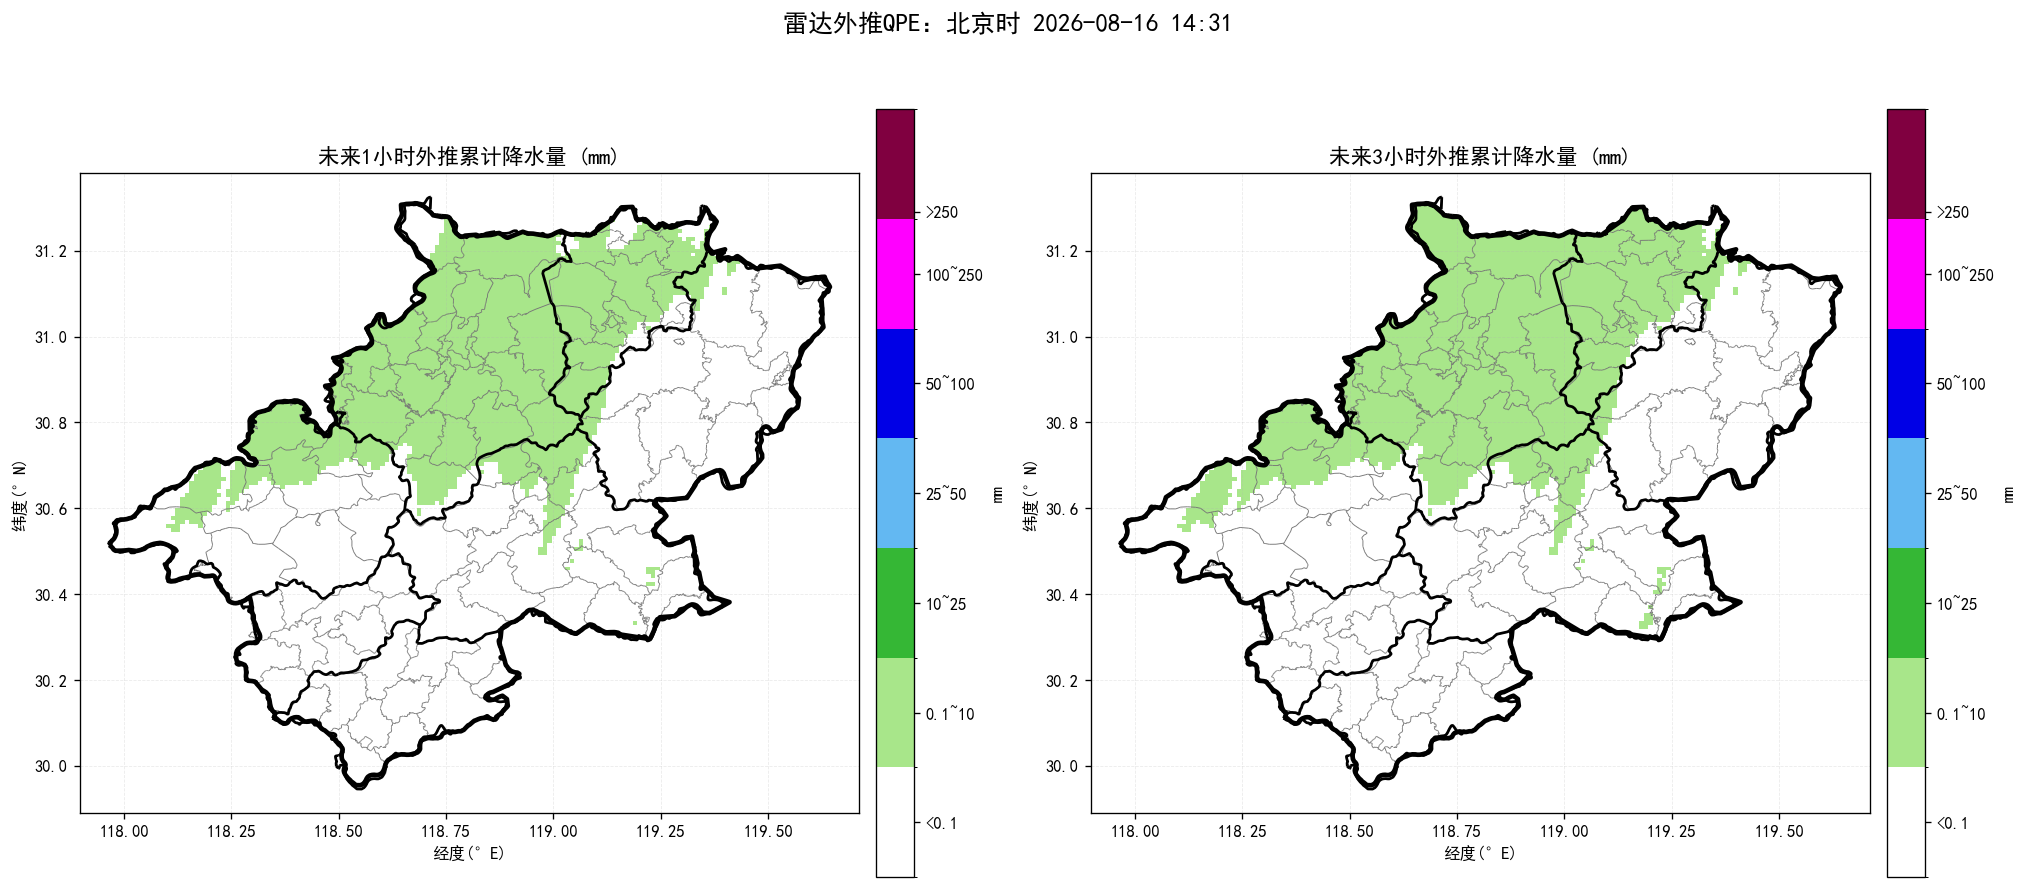
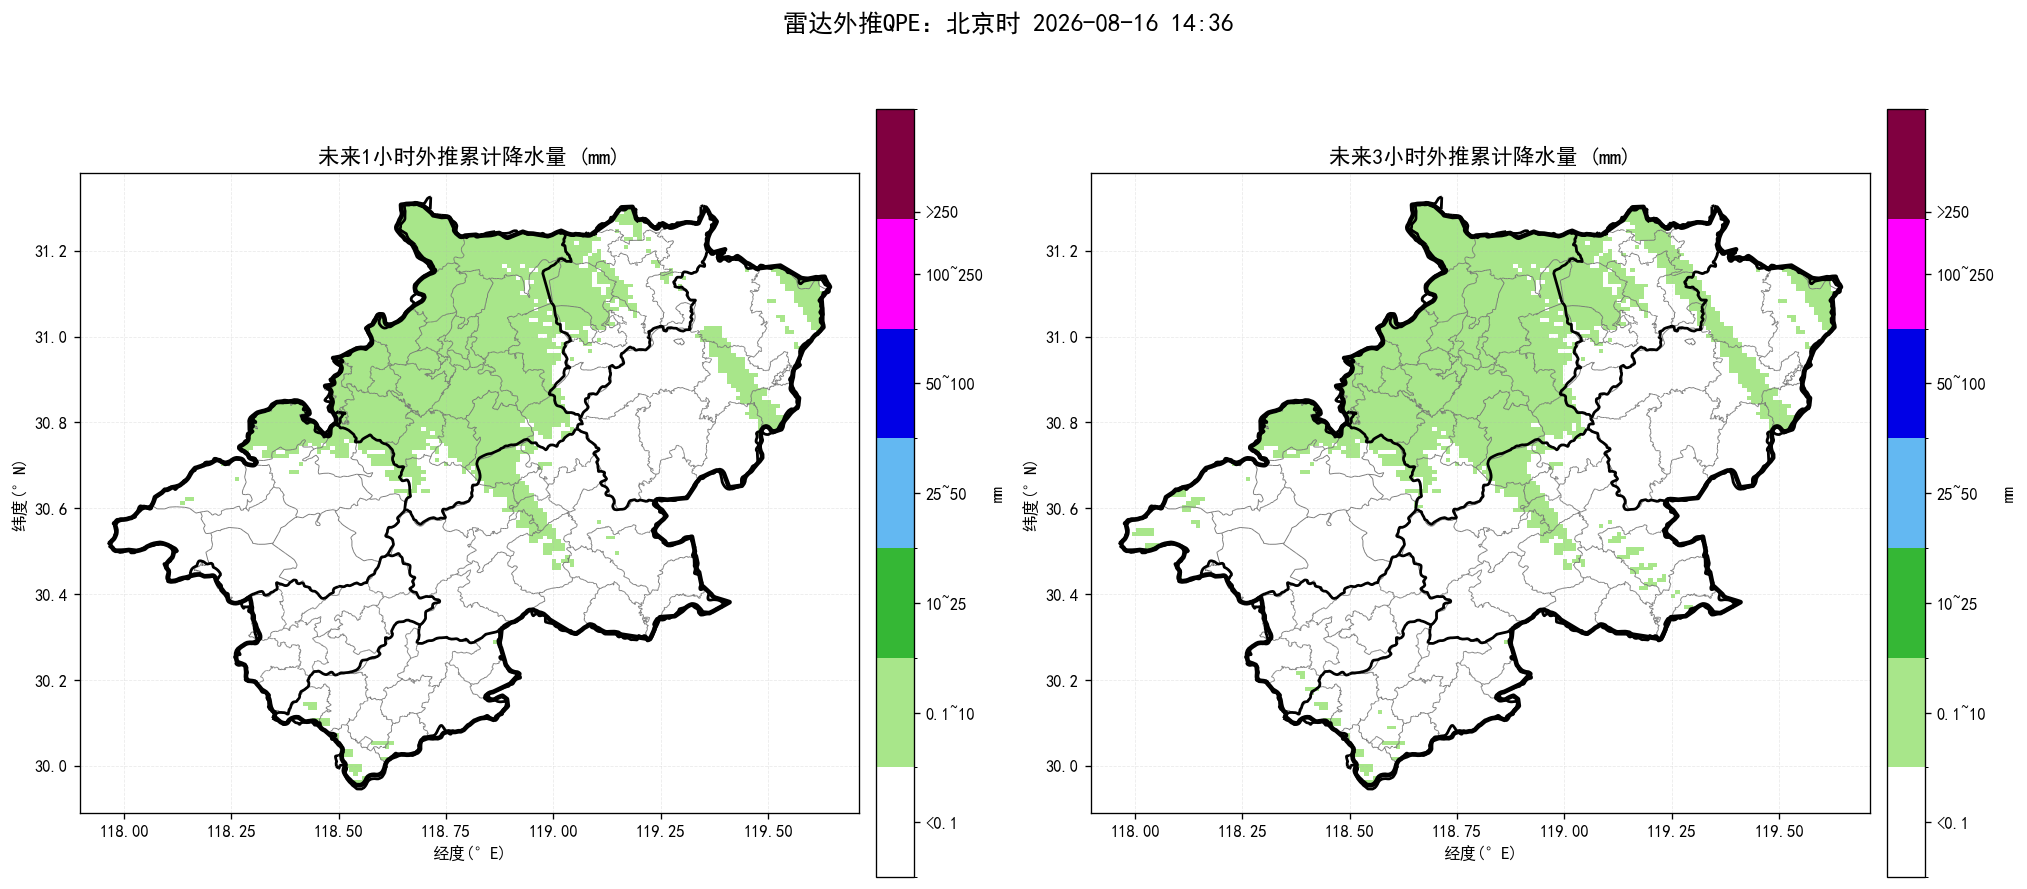
update nowcast products

diff --git a/index.html b/index.html
@@ -15,12 +15,12 @@ img.product{display:block;width:100%;height:auto;margin:10px auto 26px;border:1p
 .footer{font-size:13px;color:#777;text-align:center;margin-top:30px}
 @media(max-width:700px){.sheet{margin:0;padding:18px 15px}.alert-title{font-size:22px}.county-line{font-size:17px}.prob{font-size:18px}}
 </style></head><body><main class="sheet">
-<div class="time">起报时间：北京时 2026-08-16 14:31</div>
+<div class="time">起报时间：北京时 2026-08-16 14:36</div>
 <div class="alert-title">未来一小时降水量超过 20 毫米的乡镇：</div><div class="county-line">无</div>
 <div class="alert-title">未来三小时降水量超过 50 毫米的乡镇：</div><div class="county-line">无</div>
 <div class="alert-title">未来三小时雷暴大风（组合反射率 > 55 dBZ）的乡镇：</div><div class="county-line">无</div>
 <div class="prob">最大降水量概率预估：宣城市范围内未来三小时降水偏小，最大预报约1.4毫米，暂不进行50/80/100毫米概率预估。</div>
-<div class="section-title">未来降水预报图：</div><img class="product" src="Nowcast3h_QPE_BJT20260816143115.png" alt="未来降水预报图">
+<div class="section-title">未来降水预报图：</div><img class="product" src="Nowcast3h_QPE_BJT20260816143654.png" alt="未来降水预报图">
 <div class="section-title">未来三小时组合反射率图：</div><img class="product" src="未来3小时组合反射率.png" alt="未来三小时组合反射率图">
 <div class="section-title">未来三小时雷暴大风图：</div><img class="product" src="未来3小时雷暴大风.png" alt="未来三小时雷暴大风图">
 <div class="footer">页面每 60 秒自动刷新；产品由雷达短临外推程序自动生成。</div>
